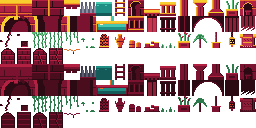
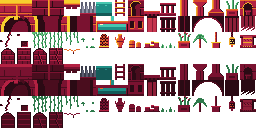
Keep gold caps for what holds the prince up
A player on a phone jumped at the Sun Terrace's balustrade: it hung a cell
above the terrace with a gold rail across its top, drawn exactly as a ledge
is, and the friezes under every lip were slots between two gold rails, a
ladder on its side. The fix is the art's, so every level's proof is
untouched: no decoration is lit across 12 or more of its 16 columns.

- The balustrade stands on the floor in the lip's row, waist high, dark and
  unlit across its top; the cornice beside it is a kerb in warm shade.
- The frieze is two blind arches a cell in the wall's own shade, lit on the
  right jamb and sill like any carved recess, with no rails.
- The column capital, which ends at grab height, is shaded and lit only on
  its west end; bases, planter and fountain rims are warm, not gold.
- No niche is cut at foot level beside open floor, where since the crawl a
  dark hole a tile high reads as a way through (two: Aqueduct and the
  Mirror Tower's cellar).

tests/unit/test_false_platforms.gd reads the atlas and holds every decor
tile to the rule, the terrain caps to staying gold, and every shipping
level's railings to standing on the floor; it fails on the old art.

Claude-Session: https://claude.ai/code/session_01CS5kLXfHzuqFJNCkKoEvRT

diff --git a/tools/generate_tiles_png.py b/tools/generate_tiles_png.py
@@ -382,32 +382,49 @@ def _recess_lip(p: Patch, cx: float, cy: float, r: float, half: float) -> None:
                 p.set(x, y, LIGHT_WARM)
 
 
+# --- what a lit cap promises ------------------------------------------------
+#
+# In this art a band of gold across the top of a thing says one thing: you can
+# stand here. Terrain caps and platforms carry it, and nothing else may. A
+# player on a phone jumped at a balustrade's lit rail hanging over the Sun
+# Terrace because it was drawn exactly like a ledge, and called the carved
+# friezes "horizontal ladders" -- two gold rails with slots between. So no
+# decoration has light (LIGHT_WARM or brighter) across 12 or more of its 16
+# columns in any row: it may be lit on an edge, a post, a jamb, never across
+# its top. tests/unit/test_false_platforms.gd reads the atlas and holds it.
+# docs/world.md, "Lit caps are a promise", argues the rule.
+
 def cornice(_unused=None) -> Patch:
-    """A projecting moulding. Lives in the empty cell ABOVE a terrace lip, so
-    its underside is what you see from below and its top is the lit edge."""
+    """A low moulding along a terrace lip, in the empty cell above it: a kerb
+    on the floor, not a second floor over it. Its top catches only the warm
+    shade; the floor's own cap below it is the gold."""
     p = Patch(TILE, TILE)
-    p.hline(9, 0, TILE - 1, SHADOW_WARM)
-    p.rect(0, 10, TILE - 1, 11, LIGHT)
-    p.hline(12, 0, TILE - 1, LIGHT_WARM)
-    p.rect(0, 13, TILE - 1, TILE - 1, SHADOW)
+    p.hline(11, 0, TILE - 1, SHADOW_WARM)
+    p.rect(0, 12, TILE - 1, 13, SHADOW)
+    p.rect(0, 14, TILE - 1, TILE - 1, SHADOW_DEEP)
     for x in range(1, TILE, 4):          # dentils
         p.rect(x, 14, x + 1, TILE - 1, INK)
     return p
 
 
 def balustrade(_unused=None) -> Patch:
-    """Posts and a rail, one cell tall, tiling horizontally. Posts are two
-    pixels wide on purpose -- see docs/world.md: a one-pixel caster lands on
-    only half the shadow lanes and casts a dotted shadow."""
+    """A railing standing on the terrace, waist high to the prince, behind
+    him: the plinth sits on the floor at the bottom of the cell, the rail
+    twelve pixels up. It used to hang a cell higher with a gold rail, which
+    read as a ledge over the floor; now it is dark, unlit across its top, and
+    shorter than the man passing in front of it, so it cannot be mistaken
+    for anything to stand on. Posts are two pixels wide on purpose -- see
+    docs/world.md: a one-pixel caster lands on only half the shadow lanes and
+    casts a dotted shadow."""
     p = Patch(TILE, TILE)
-    p.rect(0, 2, TILE - 1, 3, LIGHT)
-    p.hline(4, 0, TILE - 1, LIGHT_WARM)
-    p.hline(5, 0, TILE - 1, SHADOW_WARM)
+    p.hline(3, 0, TILE - 1, SHADOW)
+    p.hline(4, 0, TILE - 1, SHADOW_DEEP)
+    p.hline(5, 0, TILE - 1, INK)
     for px0 in (1, 6, 11):
-        p.rect(px0, 6, px0 + 3, 12, SHADOW)
-        p.vline(px0, 6, 12, LIGHT_WARM)
-        p.vline(px0 + 3, 6, 12, INK)
-    p.rect(0, 13, TILE - 1, 13, LIGHT_WARM)
+        p.rect(px0, 6, px0 + 2, 12, SHADOW_DEEP)
+        p.vline(px0, 6, 12, SHADOW)
+        p.vline(px0 + 2, 6, 12, INK)
+    p.hline(13, 0, TILE - 1, SHADOW)
     p.rect(0, 14, TILE - 1, TILE - 1, SHADOW_DEEP)
     return p
 
@@ -429,8 +446,12 @@ def column_shaft(_unused=None) -> Patch:
 def column_cap(_unused=None) -> Patch:
     p = Patch(TILE, TILE)
     _shaft(p, 7, TILE - 1)
-    p.rect(1, 0, TILE - 2, 1, LIGHT)              # abacus
-    p.hline(2, 1, TILE - 2, LIGHT_WARM)
+    # The abacus is lit on its west end, the face square to the sun, and not
+    # across its top: a column ends four tiles up, exactly at grab height,
+    # and a gold slab there reads as a ledge to grab.
+    p.rect(1, 0, TILE - 2, 1, SHADOW_WARM)
+    p.vline(1, 0, 1, LIGHT_WARM)
+    p.hline(2, 1, TILE - 2, SHADOW)
     for i in range(4):                            # flaring echinus
         inset = 2 + i
         p.rect(inset, 3 + i, TILE - 1 - inset, 3 + i, SHADOW)
@@ -447,7 +468,7 @@ def column_base(_unused=None) -> Patch:
         p.rect(inset, 9 + i, TILE - 1 - inset, 9 + i, SHADOW)
         p.set(inset, 9 + i, LIGHT_WARM)
         p.set(TILE - 1 - inset, 9 + i, INK)
-    p.hline(12, 0, TILE - 1, LIGHT)               # plinth, lit top
+    p.hline(12, 0, TILE - 1, MID)                 # plinth, warm, not a cap
     p.rect(0, 13, TILE - 1, TILE - 1, SHADOW_DEEP)
     p.vline(0, 13, TILE - 1, MID)
     return p
@@ -462,8 +483,9 @@ def planter(_unused=None) -> Patch:
             x = fx + round(lean * (k * k) / 24.0)
             p.set(x, 8 - k, FOLIAGE)
             p.set(x + 1, 8 - k, FOLIAGE_DARK)
-    p.hline(9, 2, TILE - 3, LIGHT)
-    p.hline(10, 2, TILE - 3, LIGHT_WARM)
+    p.hline(9, 2, TILE - 3, MID)                  # the rim: warm, not a cap
+    p.set(2, 9, LIGHT_WARM)
+    p.hline(10, 2, TILE - 3, SHADOW_WARM)
     p.rect(2, 11, TILE - 3, TILE - 1, SHADOW)
     p.vline(2, 11, TILE - 1, LIGHT_WARM)
     p.vline(TILE - 3, 11, TILE - 1, INK)
@@ -491,23 +513,27 @@ def niche(_unused=None) -> Patch:
 
 
 def frieze(_unused=None) -> Patch:
-    """A carved band: a row of tiny arches, the cheapest way to make a long
-    wall face read as built rather than poured."""
+    """A carved band: blind arches cut into the course under a lip, the
+    cheapest way to make a long wall face read as built rather than poured.
+    Two to a cell, round-headed, in the wall's own shade and with no rails:
+    three slots a cell between two gold lines was a ladder lying on its side,
+    and was called one by a player who tried to climb it. Lit along the lower
+    and right inner edges, as every carved recess is (docs/ui.md, "The
+    light")."""
     p = Patch(TILE, TILE)
-    p.fill(SHADOW_DEEP)
-    p.hline(0, 0, TILE - 1, LIGHT_WARM)
-    p.hline(1, 0, TILE - 1, MID)
-    for sx in (1, 6, 11):
+    p.fill(SHADOW)
+    p.hline(0, 0, TILE - 1, SHADOW_WARM)
+    p.hline(1, 0, TILE - 1, SHADOW_DEEP)
+    for sx in (2, 10):
+        cx = sx + 2.0
         for y in range(4, 12):
             for x in range(sx, sx + 4):
                 fx, fy = x + 0.5, y + 0.5
-                cx = sx + 2.0
                 inside = abs(fx - cx) <= 1.8 if fy > 6.5 else (fx - cx) ** 2 + (fy - 6.5) ** 2 <= 3.6
                 if inside:
                     p.set(x, y, INK)
-        p.vline(sx, 4, 11, MID)
-    p.hline(12, 0, TILE - 1, SHADOW)
-    p.hline(13, 0, TILE - 1, LIGHT_WARM)
+        p.vline(sx + 4, 6, 11, MID)              # the right jamb, in the sun
+        p.hline(12, sx, sx + 3, MID)             # the sill
     p.rect(0, 14, TILE - 1, TILE - 1, SHADOW_DEEP)
     return p
 
@@ -527,8 +553,11 @@ def banner(_unused=None) -> Patch:
 def fountain_sheet() -> Patch:
     """Two cells wide. Teal is water and player two and nothing else."""
     p = Patch(TILE * 2, TILE)
-    p.rect(0, 5, TILE * 2 - 1, 6, LIGHT)          # lit rim
-    p.hline(7, 0, TILE * 2 - 1, LIGHT_WARM)
+    # The rim is waist high and nobody stands on it, so it is warm, not
+    # gold; the water and its one specular are what the eye goes to.
+    p.hline(5, 0, TILE * 2 - 1, MID)
+    p.hline(6, 0, TILE * 2 - 1, SHADOW_WARM)
+    p.hline(7, 0, TILE * 2 - 1, SHADOW)
     p.rect(0, 8, TILE * 2 - 1, TILE - 1, SHADOW)
     p.rect(2, 8, TILE * 2 - 3, 10, WATER)
     p.rect(2, 11, TILE * 2 - 3, TILE - 1, WATER_DEEP)
@@ -843,9 +872,9 @@ def lantern(_unused=None) -> Patch:
 def balustrade_rug(_unused=None) -> Patch:
     """A rug hung over the railing to air. Somebody lives here."""
     p = balustrade()
-    p.rect(3, 2, 12, 13, CLOTH)
-    p.hline(2, 3, 12, CLOTH_DARK)                 # the fold over the rail
-    p.hline(5, 3, 12, LIGHT_WARM)
+    p.rect(3, 3, 12, 13, CLOTH)
+    p.hline(3, 3, 12, CLOTH_DARK)                 # the fold over the rail
+    p.hline(6, 3, 12, LIGHT_WARM)
     p.hline(10, 3, 12, LIGHT_WARM)
     for x in range(4, 12, 3):
         p.set(x, 7, SHADOW_DEEP)

diff --git a/docs/world.md b/docs/world.md
@@ -224,6 +224,63 @@ glyphs are documented in the header of `levels/level_01.txt` and defined in
 `Tiles.DECOR_LEGEND`. Most of level 1 is deliberately *not* marked up: a level
 that needed hand marking would mean generated levels could never look like it.
 
+## Lit caps are a promise
+
+A band of gold across the top of something says one thing in this art: *you
+can stand here*. Terrain caps carry it (`solid` with its three rows of
+`LIGHT`), and so do platforms, lifts and plates, and since the lit path is
+the path (`art-direction.md`, *Lead the eye with light*), nothing else may.
+
+The dresser broke that twice. A player on a phone tried to jump onto the Sun
+Terrace's balustrade: it hung a cell above the terrace, floating nine pixels
+over the cornice it was meant to stand on, with a two-pixel gold rail across
+its top -- drawn exactly as a ledge is drawn. And the friezes under every
+long lip were three ink slots a cell between two gold rails, which the same
+player called "horizontal ladders" and tried to climb.
+
+There were two ways to fix it: make every free-standing balustrade solid, or
+make decoration stop promising. The first changes collision under every
+level's proof, and the shipping chapters, their races, crumble and beat
+proofs and checkpoint routes were all built on the proof as it is. The
+second changes pixels only. So the rule is the art's:
+
+**No decoration is lit across its top.** No decor tile has light
+(`LIGHT_WARM` or brighter) across 12 or more of its 16 columns in any row. It
+may be lit on an edge, a post, a jamb -- the sun still rakes in from the
+left and finds the west face of everything -- but never across, because
+across is a floor. `tests/unit/test_false_platforms.gd` reads the atlas and
+holds every decor tile to it, and holds the terrain caps to staying gold, so
+the rule cannot be met by drawing nothing.
+
+What it changed:
+
+| Decor | Was | Is |
+| --- | --- | --- |
+| balustrade | a cell above the lip, floating, gold top rail | standing on the floor in the lip's own row, waist high to the prince, dark posts and an unlit rail: a railing behind him, shorter than he is |
+| frieze | three slots between two gold rails | two round-headed blind arches in the wall's own shade, lit on the right jamb and sill like any carved recess |
+| cornice | a gold band four pixels over the floor | a low kerb in warm shade; the floor's own cap under it is the gold |
+| column capital | a 14-px gold abacus at the top of a four-tile column -- grab height | the abacus in shade, lit only on its west end |
+| column base, planter, fountain | gold rims and plinths | warm (`MID`), not gold |
+
+Mechanism art is held to the same rule by eye rather than by the test, which
+reads the atlas: a lift's slab is lit because it is stood on; a gate's or a
+lift's counterweight carries one warm pixel row across six, a stone on a
+chain, not a ledge.
+
+The cornice and the balustrade share the lip's row now, the railing in from
+each edge that falls away and the kerb along the rest (`_dress_lip()`). A
+railing's shadow still combs the terrace it stands on, which is what a
+balustrade is for in the composition.
+
+**Nothing reads as a passage that is not one.** The other half of the same
+complaint, from the Mirror Tower. A niche cut at foot level beside floor the
+prince walks on is a dark hole a tile high: since the crawl
+(`docs/character.md`, *The crawl*), that is exactly the shape of a way
+through. The niche rule no longer cuts one beside open floor at the
+walking level (`_rule_niches()`); there were two, in the Aqueduct and in
+the Mirror Tower's cellar. The one real one-tile wall in the tower, R5's
+slot, is now crawled through.
+
 ## Room moods: wear, growth and the things people leave about
 
 Architecture alone made every room the same room. The end of `dresser.gd`
@@ -636,6 +693,10 @@ no mechanism is proved exactly as it always was.
   casts, the two sparing rules, that shipping levels are neither blank nor
   black, and that the mask fits a texture. The shade-twin lookup itself has no
   dedicated test; it is checked by eye in screenshots.
+- `tests/unit/test_false_platforms.gd` — no decoration is lit across its top
+  (12 of 16 columns of `LIGHT_WARM` or brighter in a row), the caps that hold
+  the prince up still are, and every balustrade in every shipping level
+  stands on the floor rather than over it.
 - `tests/world_dressing_test.gd` — decoration cannot collide, marks leave
   their cell empty, every shipping and generated level gets architecture, and a
   symmetric level is dressed symmetrically.

diff --git a/docs/art-direction.md b/docs/art-direction.md
@@ -141,7 +141,18 @@ world for night or interior must stay a palette edit plus a re-run.
 - **Negative space is not empty space.** A wide lit floor with one figure and
   one long shadow is the reference's strongest frame. Resist filling it.
 - **Lead the eye with light.** The lit path should be the path. Where the
-  player is meant to go, put the gold.
+  player is meant to go, put the gold. The converse is the rule that bites:
+  **a band of gold across the top of something is a promise that it holds
+  you up.** Terrain caps, platforms, lifts and plates make it; decoration
+  never does. A balustrade with a lit rail hanging over a terrace is a ledge
+  to anyone holding a phone, and a frieze of slots between two gold rails is
+  a ladder lying on its side -- both were jumped at by a player. So a
+  railing is dark and stands on the floor behind the prince, shorter than
+  he is; a frieze is blind arches in the wall's own shade; a capital, a rim
+  or a kerb is lit on its west edge and never across its top. And the same
+  holds for shape: nothing at the prince's feet may read as a hole a tile
+  high unless it is one he can crawl through. `docs/world.md`, *Lit caps are
+  a promise*, has the table and the test.
 - **Silhouette first.** At 22 px the character is a shape before it is
   anything else; the same goes for every hazard and every ledge. If a frame
   does not read in two tones, no amount of detail will save it.
